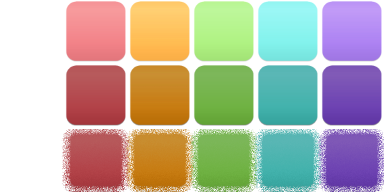
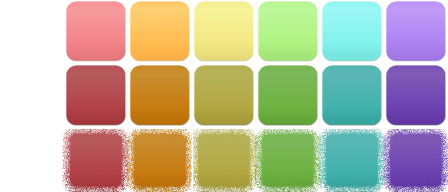
Yellow now available

diff --git a/core/src/sanoke/qx/Assets.java b/core/src/sanoke/qx/Assets.java
@@ -18,6 +18,7 @@ public class Assets {
     private static TextureRegion blankImage;
     private static TextureRegion redImage;
     private static TextureRegion orangeImage;
+    private static TextureRegion yellowImage;
     private static TextureRegion blueImage;
     private static TextureRegion greenImage;
     private static TextureRegion purpleImage;
@@ -25,6 +26,7 @@ public class Assets {
     
     private static TextureRegion redSelectImage;
     private static TextureRegion orangeSelectImage;
+    private static TextureRegion yellowSelectImage;
     private static TextureRegion blueSelectImage;
     private static TextureRegion greenSelectImage;
     private static TextureRegion purpleSelectImage;
@@ -44,27 +46,31 @@ public class Assets {
                 UNIT_LENGTH);
         orangeImage = new TextureRegion(unitsMap, UNIT_WIDTH * 2, 0,
                 UNIT_WIDTH, UNIT_LENGTH);
-        blueImage = new TextureRegion(unitsMap, UNIT_WIDTH * 3, 0, UNIT_WIDTH,
-                UNIT_LENGTH);
+        yellowImage = new TextureRegion(unitsMap, UNIT_WIDTH * 3, 0,
+                UNIT_WIDTH, UNIT_LENGTH);
         greenImage = new TextureRegion(unitsMap, UNIT_WIDTH * 4, 0, UNIT_WIDTH,
                 UNIT_LENGTH);
-        purpleImage = new TextureRegion(unitsMap, UNIT_WIDTH * 5, 0,
+        blueImage = new TextureRegion(unitsMap, UNIT_WIDTH * 5, 0, UNIT_WIDTH,
+                UNIT_LENGTH);
+        purpleImage = new TextureRegion(unitsMap, UNIT_WIDTH * 6, 0,
                 UNIT_WIDTH, UNIT_LENGTH);
-        unselectedTextures = new TextureRegion[] {blankImage, redImage, orangeImage,
-                blueImage, greenImage, purpleImage };
+        unselectedTextures = new TextureRegion[] { blankImage, redImage,
+                orangeImage, yellowImage, greenImage, blueImage, purpleImage };
         redSelectImage = new TextureRegion(unitsMap, UNIT_WIDTH * 1,
                 UNIT_LENGTH, UNIT_WIDTH, UNIT_LENGTH);
         orangeSelectImage = new TextureRegion(unitsMap, UNIT_WIDTH * 2,
                 UNIT_LENGTH, UNIT_WIDTH, UNIT_LENGTH);
-        blueSelectImage = new TextureRegion(unitsMap, UNIT_WIDTH * 3,
+        yellowSelectImage = new TextureRegion(unitsMap, UNIT_WIDTH * 3,
                 UNIT_LENGTH, UNIT_WIDTH, UNIT_LENGTH);
         greenSelectImage = new TextureRegion(unitsMap, UNIT_WIDTH * 4,
                 UNIT_LENGTH, UNIT_WIDTH, UNIT_LENGTH);
-        purpleSelectImage = new TextureRegion(unitsMap, UNIT_WIDTH * 5,
+        blueSelectImage = new TextureRegion(unitsMap, UNIT_WIDTH * 5,
                 UNIT_LENGTH, UNIT_WIDTH, UNIT_LENGTH);
-        selectedTextures = new TextureRegion[] {blankImage, redSelectImage,
-                orangeSelectImage, blueSelectImage, greenSelectImage,
-                purpleSelectImage };
+        purpleSelectImage = new TextureRegion(unitsMap, UNIT_WIDTH * 6,
+                UNIT_LENGTH, UNIT_WIDTH, UNIT_LENGTH);
+        selectedTextures = new TextureRegion[] { blankImage, redSelectImage,
+                orangeSelectImage, yellowSelectImage, greenSelectImage,
+                blueSelectImage, purpleSelectImage };
         music = Gdx.audio.newMusic(Gdx.files.internal("morelegalmusic.mp3"));
         music.setLooping(true);
         music.setVolume(0.5f);

diff --git a/core/src/sanoke/qx/Unit.java b/core/src/sanoke/qx/Unit.java
@@ -7,9 +7,10 @@ public class Unit {
      * Not sure if will need these here or not
      * private static final int RED = 0; 
      * private static final int ORANGE = 1;
-     * private static final int GREEN = 2; 
-     * private static final int BLUE = 3;
-     * private static final int PURPLE = 4;
+     * private static final int YELLOW = 2;
+     * private static final int GREEN = 3; 
+     * private static final int BLUE = 4;
+     * private static final int PURPLE = 5;
      */
 
     // row and column unit is currently at

diff --git a/core/src/sanoke/qx/Board.java b/core/src/sanoke/qx/Board.java
@@ -50,7 +50,7 @@ public class Board {
 
 	// spawns a random Unit at row, col
 	public Unit spawnUnit(int row, int col) {
-		return new Unit(row, col, MathUtils.random(1, 5));
+		return new Unit(row, col, MathUtils.random(1, 6));
 	}
 
 	public Array<Unit> getCol(int col) {
